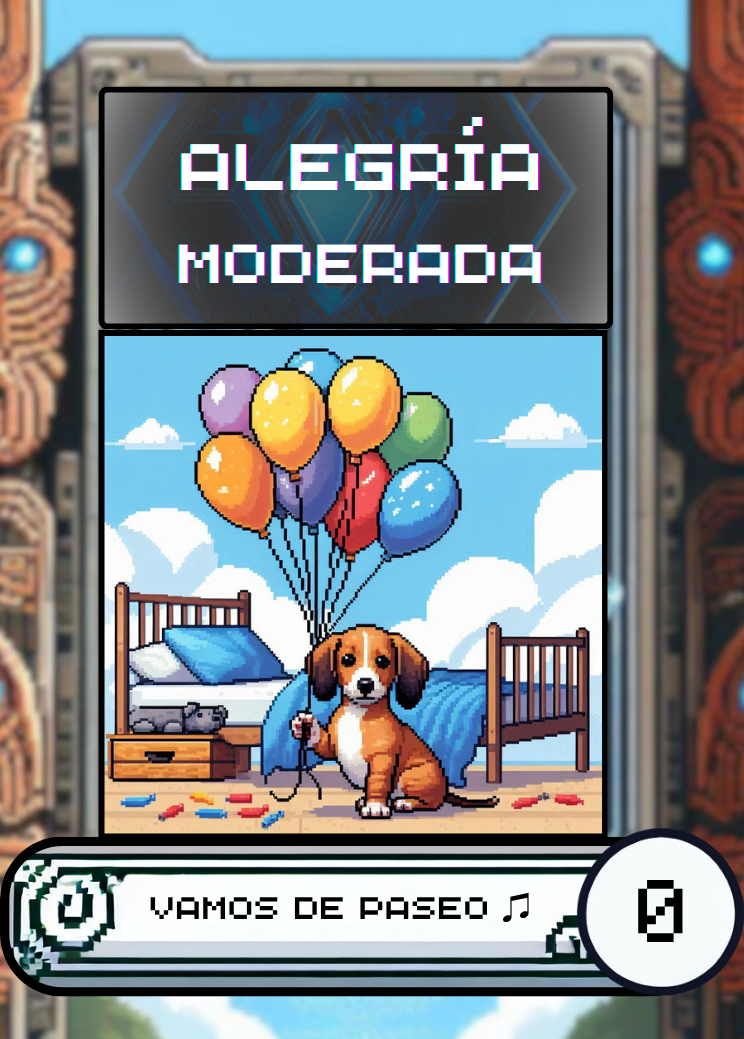
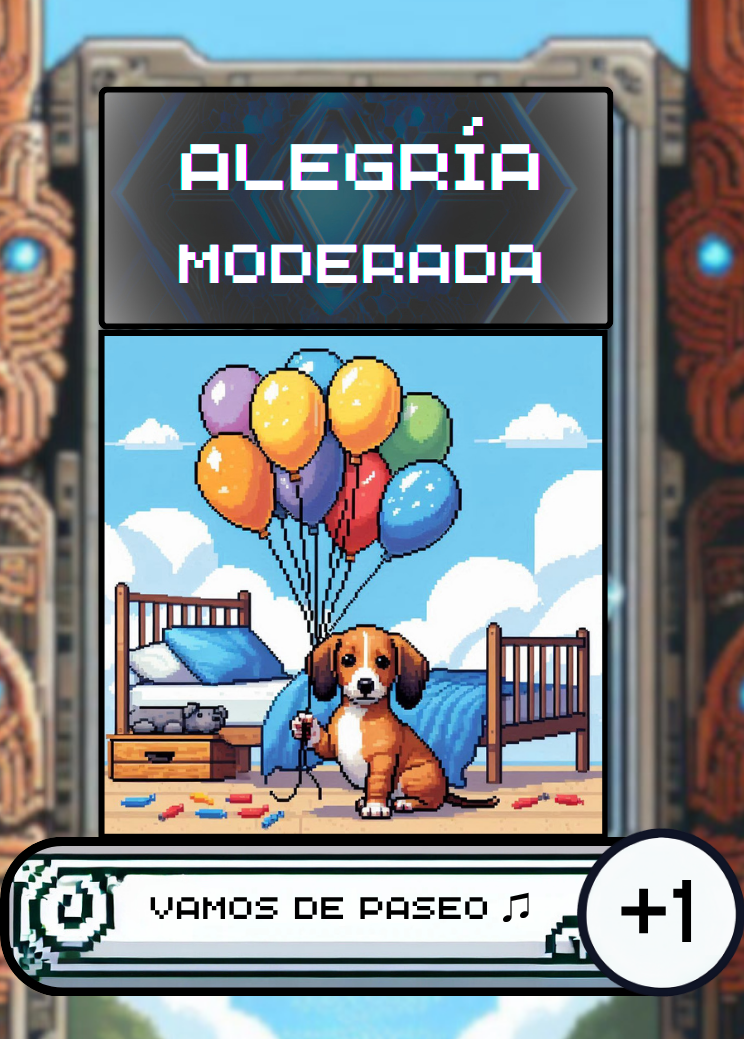
Música de fondo
Primera versión con música y FX

diff --git a/public/karekau/index.html b/public/karekau/index.html
@@ -5,8 +5,8 @@
     <meta name="viewport" content="width=device-width, initial-scale=1.0, maximum-scale=1.0, user-scalable=no, viewport-fit=cover" />
     <link rel="icon" type="image/x-icon" href="/karekau/favicon.ico" />
     <title>Karekau</title>
-    <script type="module" crossorigin src="/karekau/assets/index-B0fixAXd.js"></script>
-    <link rel="stylesheet" crossorigin href="/karekau/assets/index-BzmABNaP.css">
+    <script type="module" crossorigin src="/karekau/assets/index-B6XlHWIE.js"></script>
+    <link rel="stylesheet" crossorigin href="/karekau/assets/index-DyRlKiKK.css">
   </head>
   <body>
     <div id="root"></div>